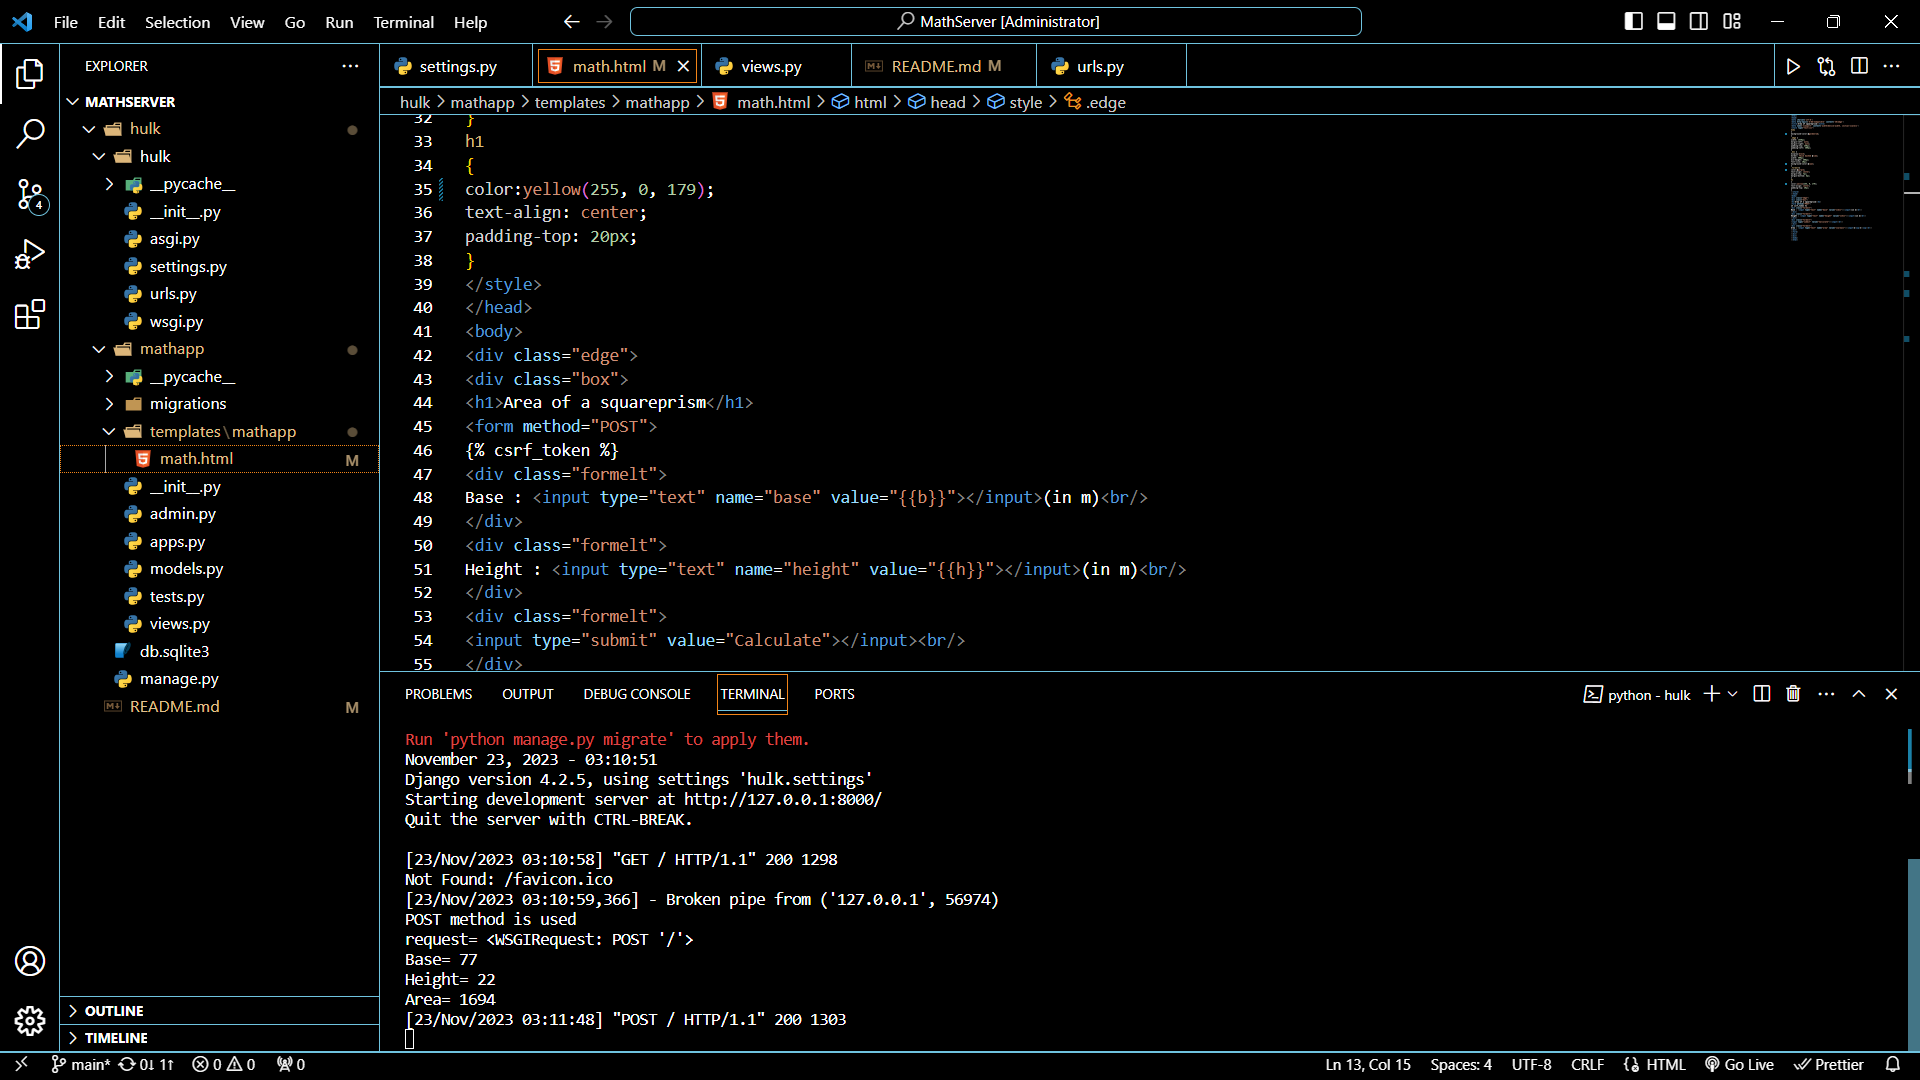
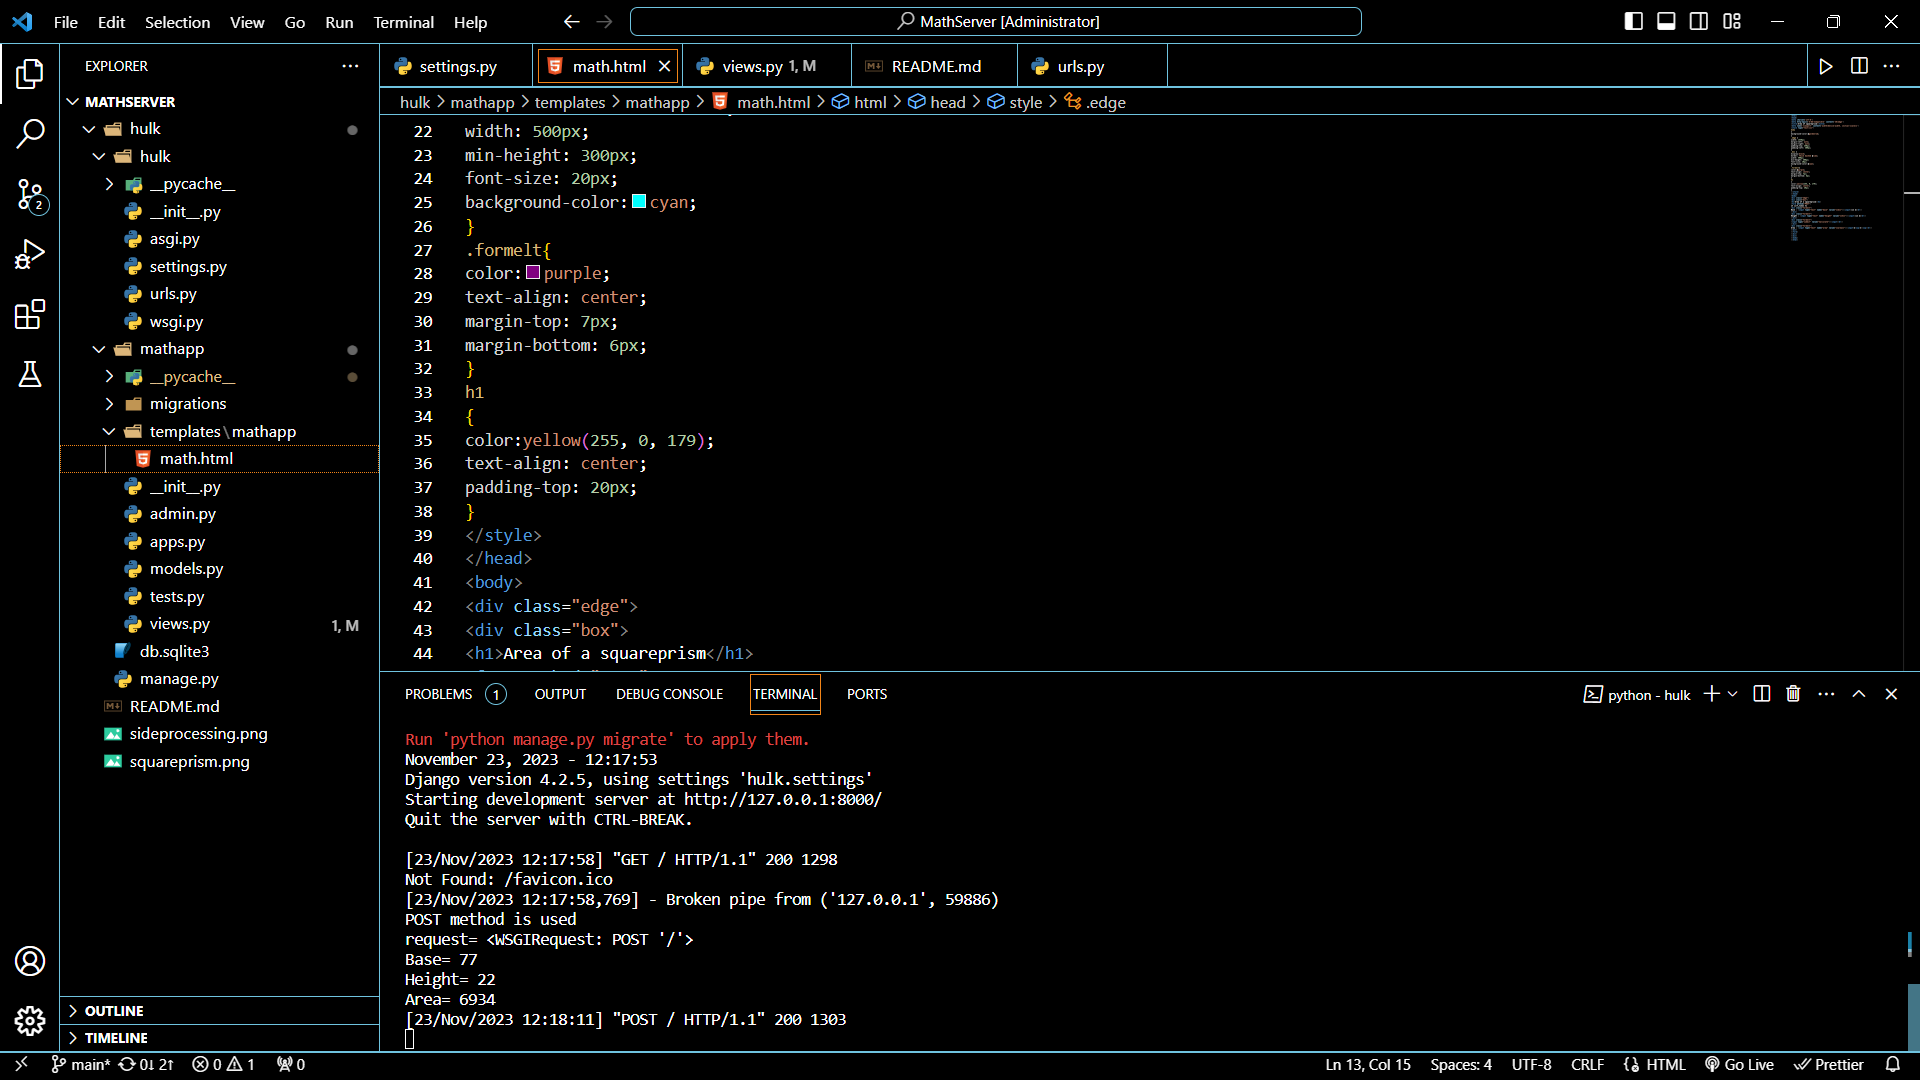
success

diff --git a/hulk/mathapp/views.py b/hulk/mathapp/views.py
@@ -11,7 +11,7 @@ def squareprism(request):
         print('request=',request)
         print('Base=',b)
         print('Height=',h)
-        area = int(b) * int(h)
+        area = 2*(int(b)^2)+4*int(b)*int(h)
         context['area'] = area
         context['b'] = b
         context['h'] = h

diff --git a/README.md b/README.md
@@ -133,9 +133,9 @@ urlpatterns = [
 ![Alt text](sideprocessing.png)
 
 
+
 ## HOMEPAGE:
 ![Alt text](squareprism.png)
-
 
 
 ## RESULT:
